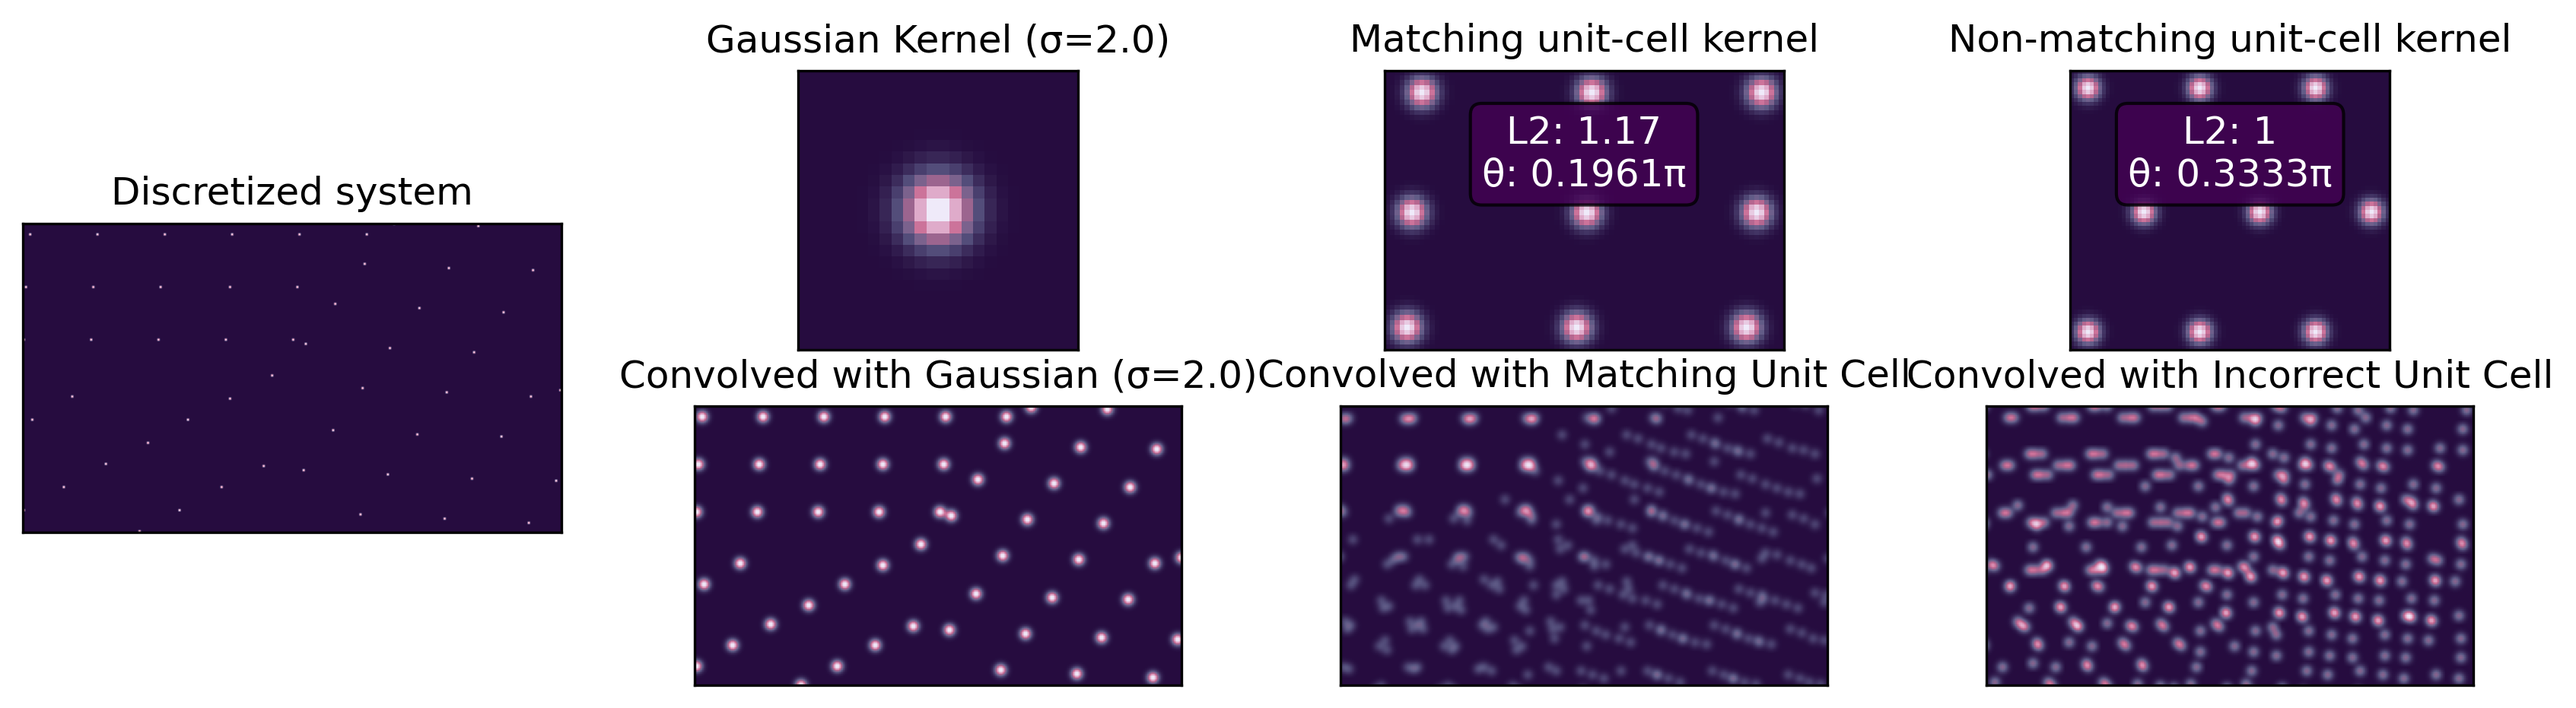
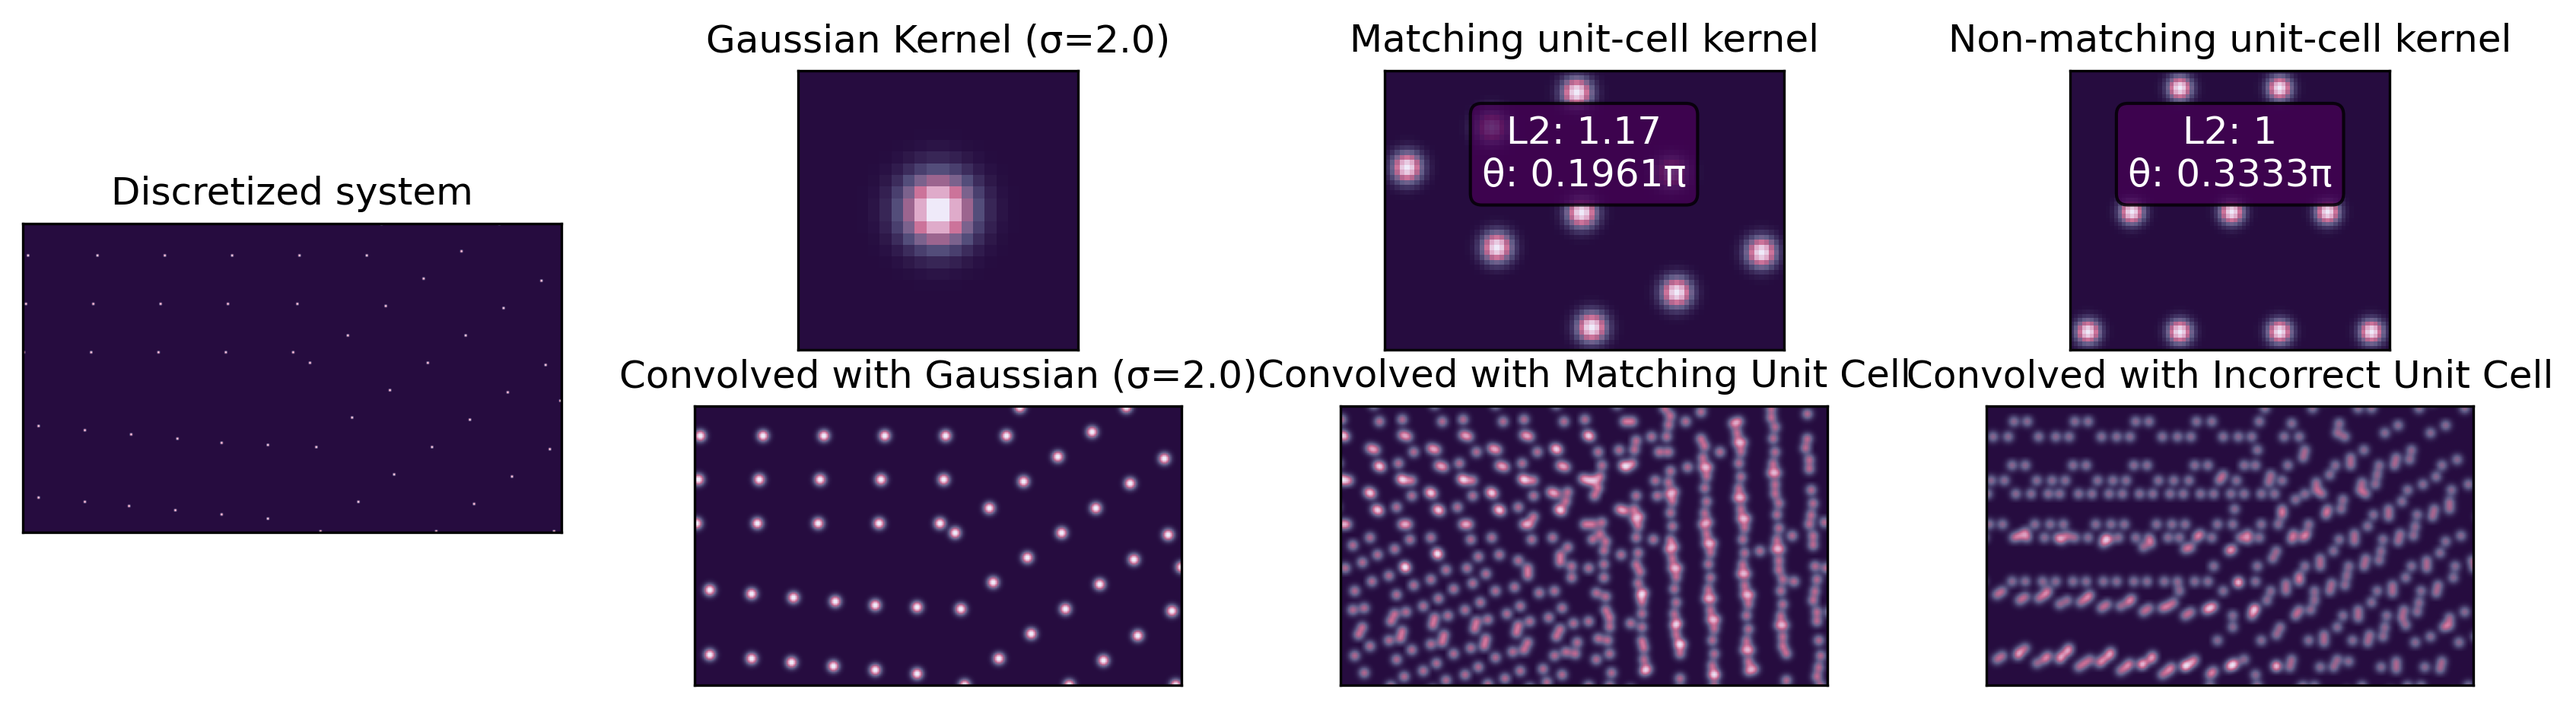
debugging example2

diff --git a/src/lattice.py b/src/lattice.py
@@ -95,14 +95,46 @@ def gkern(l=5, sigma=1.0):  # noqa: E741
     return kernel / kernel.sum()
 
 
+#def bravais_kernel(L2=1.0, theta=np.pi / 2, centered=False, blur_sigma=0.0, px=9, n=(3,3)):
 def bravais_kernel(L2=1.0, theta=np.pi / 2, centered=False, blur_sigma=0.0, px=9, n=(3,3), rot_angle = 0):
     """Create a one unit-cell kernel from bravais lattice parameters."""
     print(f"L2: {L2}")
     print(f"theta: {theta/np.pi/np.pi:.4f}π")
     print(f"px: {px}")
-    box, pos = make_bravais2d(n=(n[0]+1, n[1]+1, 1), L2=L2, theta=theta, centered=centered)
-    pos[:,:-1] = pos[:,:-1] @ rotation_matrix(rot_angle).T
-    box, pos, _ = slice_to_orthogonal(box, pos)
+    box, pos = make_bravais2d(n=(n[0]+2, n[1]+2, 1), L2=L2, theta=theta, centered=centered)
+    print('len pos 0: ', len(pos))
+    #box, pos, _ = slice_to_orthogonal(
+    #    *make_bravais2d(n=(*n, 1), L2=L2, theta=theta, centered=centered))
+    
+
+    box, unrot_pos, _ = slice_to_orthogonal(box, pos)
+    
+    #pos[:,:-1] = unrot_pos[:,:-1] @ rotation_matrix(rot_angle).T
+    pos[:,:-1] = unrot_pos[:,:-1] @ rotation_matrix(rot_angle)
+    
+    print('rot_angle: ', rot_angle)
+    
+    '''
+    plt.scatter(unrot_pos[:,0],-unrot_pos[:,1], s=.5)
+    plt.scatter(pos[:,0],-pos[:,1], s=.5)
+    plt.savefig(f"../figs/kpos_{rot_angle:.2f}.png",transparent=True, dpi=300, bbox_inches="tight")
+    plt.close()
+    '''
+
+    pos = np.array(pos)
+    rad = pos[:,0]**2 + pos[:,1]**2
+    sort_idx = np.argsort(rad)
+    close_idx = sort_idx[:(n[0] * n[1])]
+    pos = pos[close_idx]
+    print(pos) 
+    print(box)
+    print('len pos 1: ', len(pos))
+
+    '''
+    plt.scatter(pos[:,0], pos[:,1])
+    plt.savefig(f'../figs/example2_pts_final_{theta:.2f}.png',transparent=True, bbox_inches="tight")
+    plt.close()
+    '''
     return lattice2image(box, pos, px=px, blur_sigma=blur_sigma, pad_width=4)
 
 
@@ -140,9 +172,11 @@ def make_polycrystalline(midpoints, theta, n=100, L2=1.0, sigma_noise=0.0):
     #ax.scatter(midpoints[:, 0], midpoints[:, 1], s=10, c="k")
 
     all_positions = []
+    rotations = []
     # Generate lattice for each Voronoi region
     for i, midpoint in enumerate(midpoints):
         rotation_angle = np.random.uniform(0, 2*np.pi)
+        rotations.append(rotation_angle)
         rot_matrix = rotation_matrix(rotation_angle)
         if i==0:
             rot_matrix = rotation_matrix(0)
@@ -152,11 +186,18 @@ def make_polycrystalline(midpoints, theta, n=100, L2=1.0, sigma_noise=0.0):
             theta=theta,
             sigma_noise=sigma_noise
         )
-        region_pos[:,:-1] = region_pos[:,:-1] @ rot_matrix.T
-        translated_pos = region_pos #+ midpoint
-        
-        distances = box.compute_all_distances(translated_pos, midpoints)
 
+        #region_pos[:,:-1] = region_pos[:,:-1] @ rot_matrix.T
+        region_pos[:,:-1] = region_pos[:,:-1] @ rot_matrix
+        
+        translated_pos = region_pos #+ midpoint
+        '''
+        plt.scatter(translated_pos[:,0],-translated_pos[:,1], s=.4)
+        plt.savefig("../figs/pos_before_cut.png",transparent=True, dpi=300, bbox_inches="tight")
+        plt.close()
+        '''
+        distances = box.compute_all_distances(translated_pos, midpoints)
+        
         # Filter points within Voronoi region
         mask_is_closest = np.argmin(distances, axis = 1) == i
         mask_in_box = box.contains(translated_pos)
@@ -164,19 +205,26 @@ def make_polycrystalline(midpoints, theta, n=100, L2=1.0, sigma_noise=0.0):
         wrapped_pos = box.wrap(filtered_pos)
         all_positions.append(wrapped_pos)
     
+    rotations[0] = 0
+    print('rotations:\n', rotations)
+
     # Combine all positions
     final_positions = np.vstack(all_positions)
+    '''
+    plt.scatter(final_positions[:,0],-final_positions[:,1], s=.4)
+    plt.savefig("../figs/pos_after_cut.png",transparent=True, dpi=300, bbox_inches="tight")
+    plt.close()
+    '''
     
     # Create a box that encompasses all points
     
     final_box, final_positions, _ = slice_to_orthogonal(box, final_positions)
     # ax.scatter(final_positions[:, 0], final_positions[:, 1], s=4, c="b")
-    return final_box, final_positions
+    return final_box, final_positions, rotations
 
 
-midpoints = np.array([[-0.45,-0.25,0],[-0.4,0.25,0],[0.35,0.35,0]])
-make_polycrystalline(midpoints, theta =2*np.pi/3, n=30, L2=1.0, sigma_noise=0.0)
-
+#midpoints = np.array([[-0.45,-0.25,0],[-0.4,0.25,0],[0.35,0.35,0]])
+#make_polycrystalline(midpoints, theta =2*np.pi/3, n=30, L2=1.0, sigma_noise=0.0)
 
 # Actual MNIST data set is a raw data array - no need to save to image file! Can do npz
 

diff --git a/src/render_ex2.py b/src/render_ex2.py
@@ -39,7 +39,7 @@ if __name__ == "__main__":
     orthogonal_box, wrapped, (x, y) = slice_to_orthogonal(box, pos)
 
     ax.scatter(*wrapped.T[:2], color="#C76E95")
-    orthogonal_box.plot(ax=ax, label="Rectolinear Basis")
+    orthogonal_box.plot(ax=ax, label="Rectilinear Basis")
     ax.set(xticks=[], yticks=[], xlabel="", ylabel="", title="Original System")
     plt.legend()
     # plt.savefig("figs/wrapped.png", transparent=True, bbox_inches="tight", dpi=300)
@@ -52,12 +52,13 @@ if __name__ == "__main__":
 
     midpoints = np.array([[-0.45,-0.25,0],[-0.4,0.25,0],[0.35,0.35,0]])
     # box, pos = make_polycrystalline(midpoints, theta =2*np.pi/3, n=30, L2=1.0, sigma_noise=0.0)
-    box, pos = make_polycrystalline(midpoints, **MONOCLINIC_CELL_PARAMS, n=8, sigma_noise=0.0)
+    box, pos, rotations = make_polycrystalline(midpoints, **MONOCLINIC_CELL_PARAMS, n=8, sigma_noise=0.0)
     
     im = lattice2image(box, pos, blur_sigma=0, px=PX)
     kernel = np.pad(gkern(16, sigma=SIG_MATCH),4)
     im_gauss = sp.signal.convolve(im, kernel, mode=CONVOLVE_MODE)
-    bkern = bravais_kernel(**MONOCLINIC_CELL_PARAMS, blur_sigma=SIG_MATCH, px=OUT_PX, n=N_KERN)
+    bkern = bravais_kernel(**MONOCLINIC_CELL_PARAMS, blur_sigma=SIG_MATCH, px=OUT_PX, n=N_KERN, rot_angle = rotations[2])
+    print('shape bkern: ',bkern.shape)
     im_brav = sp.signal.convolve(im, bkern, mode=CONVOLVE_MODE)
     non_matching_bkern = bravais_kernel(**HEXAGONAL_CELL_PARAMS, blur_sigma=SIG_MATCH, px = OUT_PX)
     im_nm_brav = sp.signal.convolve(im, non_matching_bkern, mode=CONVOLVE_MODE)
@@ -73,8 +74,6 @@ if __name__ == "__main__":
     print(f"RMSD matching: {mse.item()}")
     mse_nm = F.mse_loss(im_tensor, im_nm_brav_tensor)
     print(f"RMSD nonmatching: {mse_nm.item()}")
-
-
 
     # Combine the first column subplots (ax[0, 0] and ax[1, 0])
     ax_main = fig.add_subplot(2, 4, (1, 5))  # Combines the first column (spans rows 1 and 2)
@@ -140,3 +139,16 @@ if __name__ == "__main__":
 
     plt.savefig("../figs/example2.png",transparent=True, bbox_inches="tight")
     # plt.show()
+
+    plt.close()
+
+    # Plotting kernels to debug
+    '''
+    plt.figure()
+    fig, ax = plt.subplots(1, 2, dpi=300)
+    plt.set_cmap('cmc.acton')
+    ax[0].imshow(bkern, aspect="equal")
+    ax[1].imshow(im_gauss[:bkern.shape[0], im_gauss.shape[1]-bkern.shape[1]:], aspect="equal")
+    plt.savefig("../figs/example2_kernels.png",transparent=True, bbox_inches="tight")
+    '''
+
